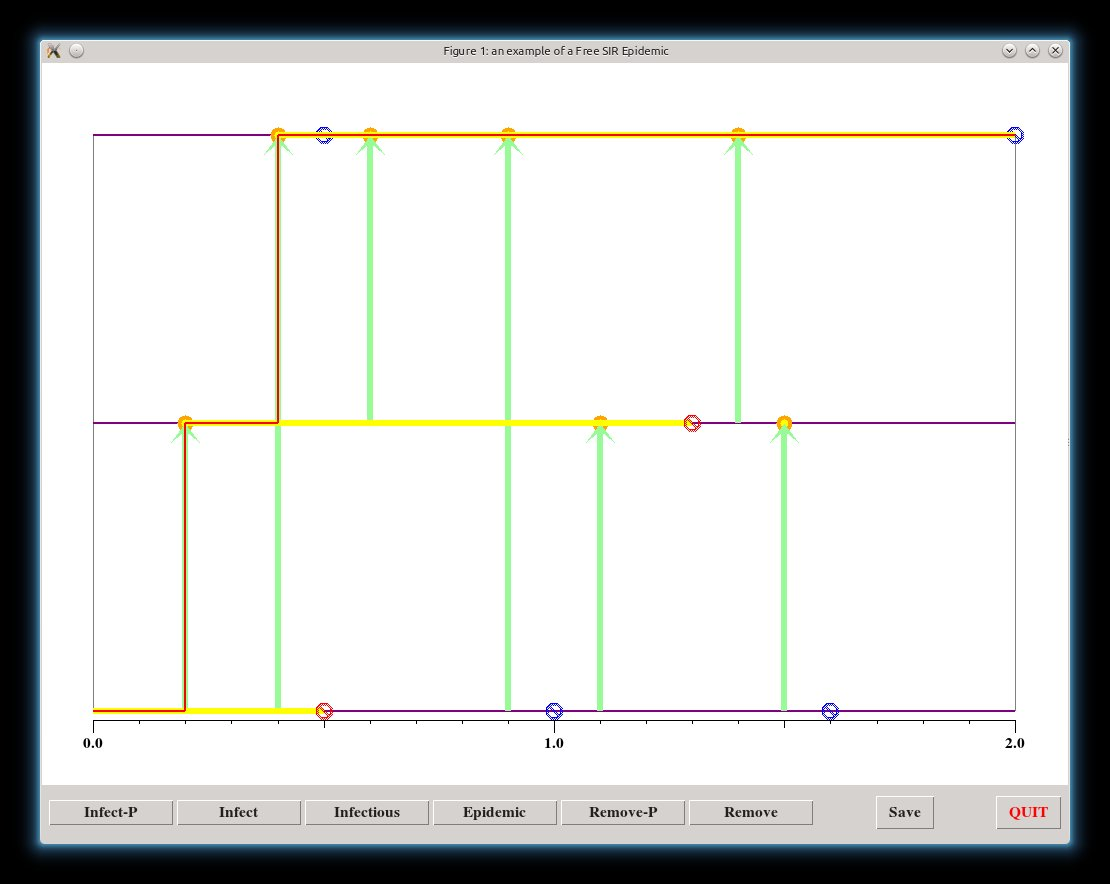
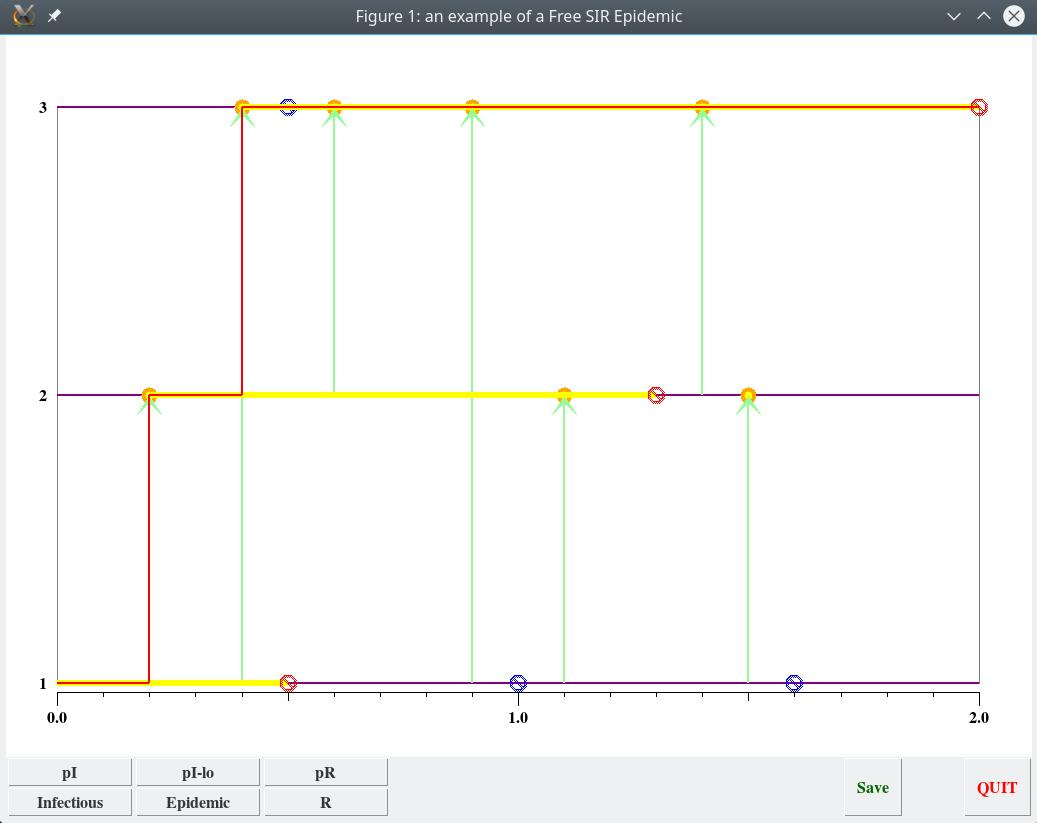
Updated documentation.

diff --git a/python/README.md b/python/README.md
@@ -81,7 +81,7 @@ Other examples can be found in `Makefile`.
 
 ![Screenshot of a version of `static.py`](image/static.jpg "static.jpg")
 
-Depress one of the group of six buttons at the bottom left of the window
+Depress one of the buttons in the two rows at the bottom left of the window
 in order to toggle disappearance (and then appearance) of the corresponding
 elements in the image. This is useful for checking the image against the
 commandline specification, as well as clarifying the elements of more complicated images.
